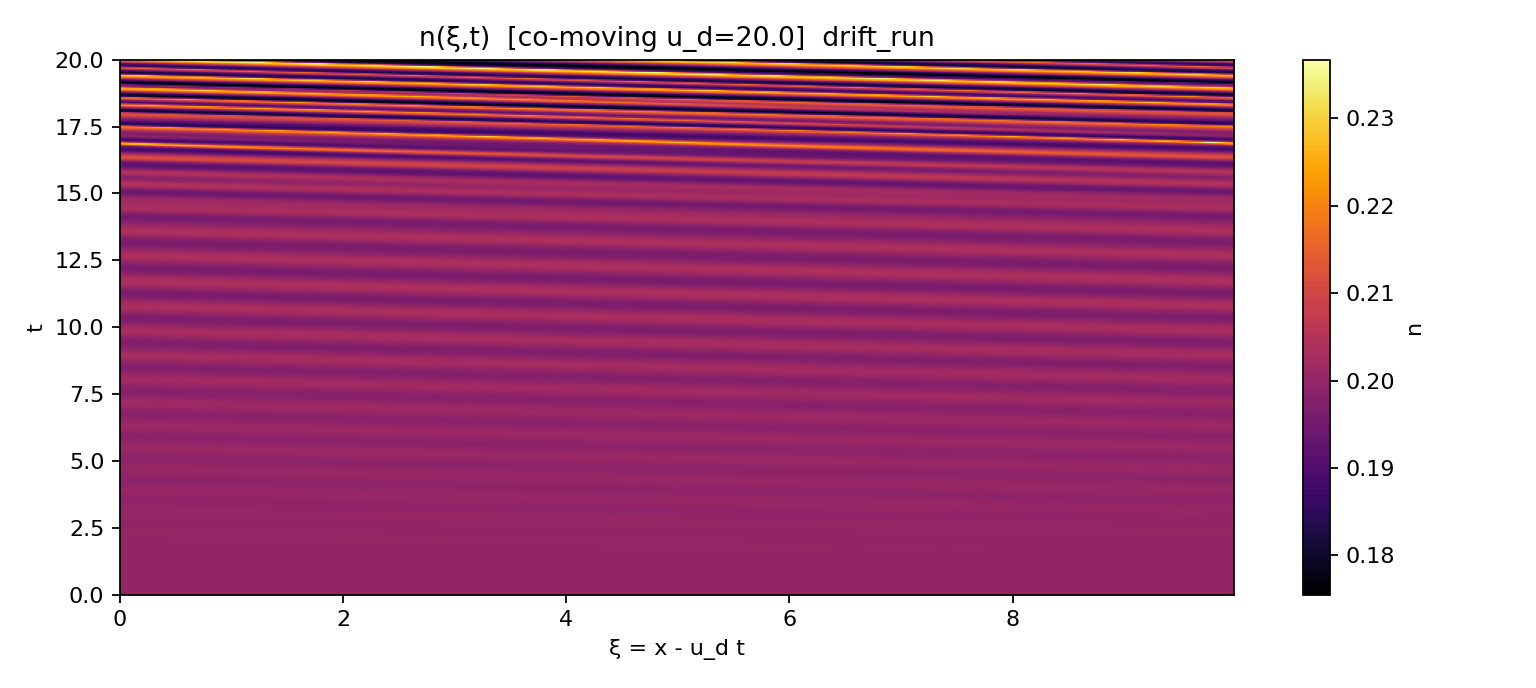
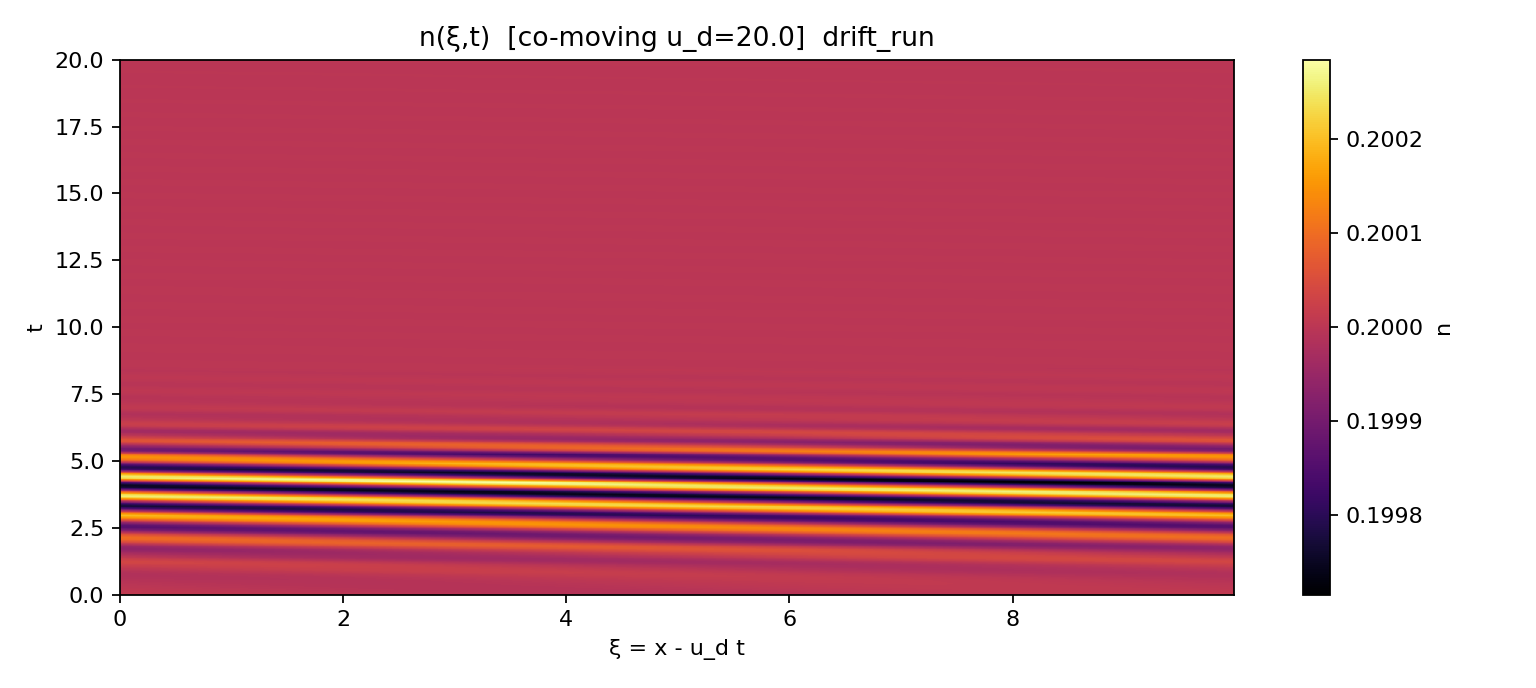
Refine simulation with smaller perturbations (dn=1e-5, dp=1e-4); plateau cleared

diff --git a/mass injection/mass injection.py b/mass injection/mass injection.py
@@ -255,8 +255,12 @@ if __name__ == "__main__":
     par.source_model = "as_given"
     par.maintain_drift = "field" # fixed E to hold mean drift
     par.seed_mode = 1
-    par.seed_amp_n = 1e-4 * par.nbar0
-    par.seed_amp_p = 1e-4 * par.m * par.nbar0 * par.u_d
+    # par.seed_amp_n = 1e-4 * par.nbar0 / 2.2
+    # par.seed_amp_p = 1e-4 * par.m * par.nbar0 * par.u_d/ 2.2
+
+    par.seed_amp_n = 1e-05#1e-4 * par.nbar0 / 2.2
+    par.seed_amp_p = 1e-04#0.0001#1e-4 * par.m * par.nbar0 * par.u_d/ 2.2
+
 
     print(par.seed_amp_n)
     print(par.seed_amp_p)
